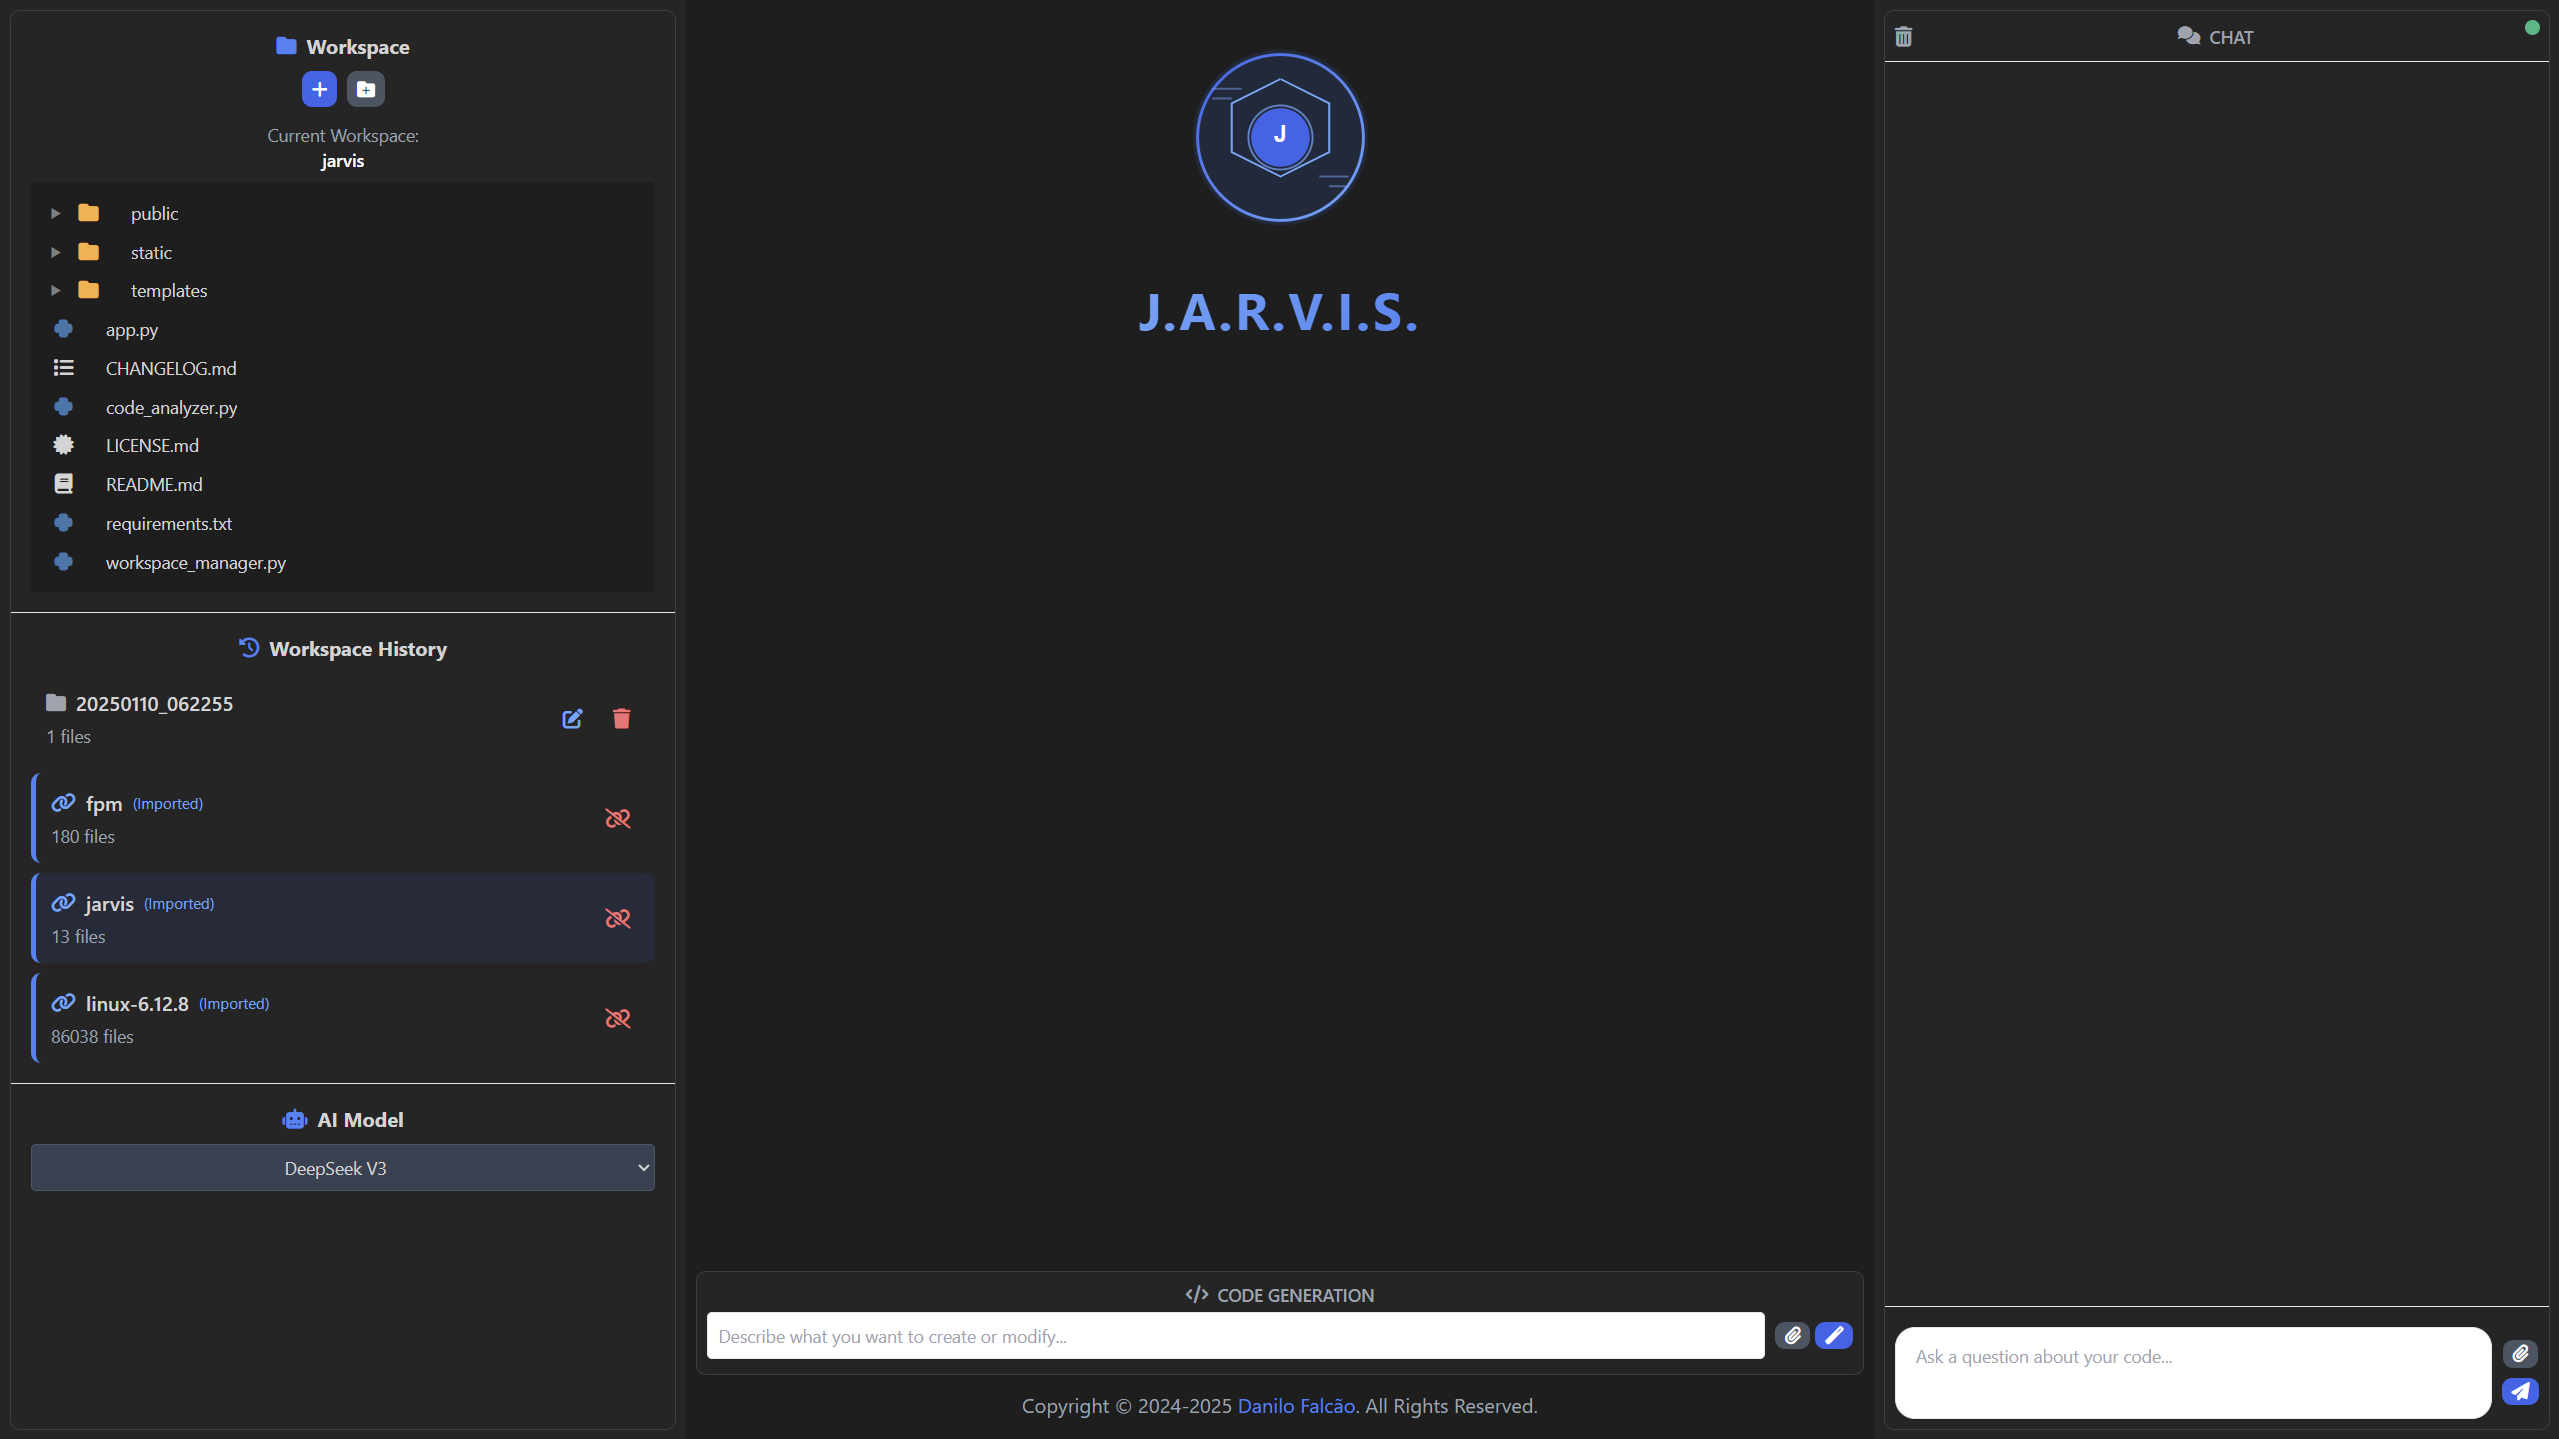
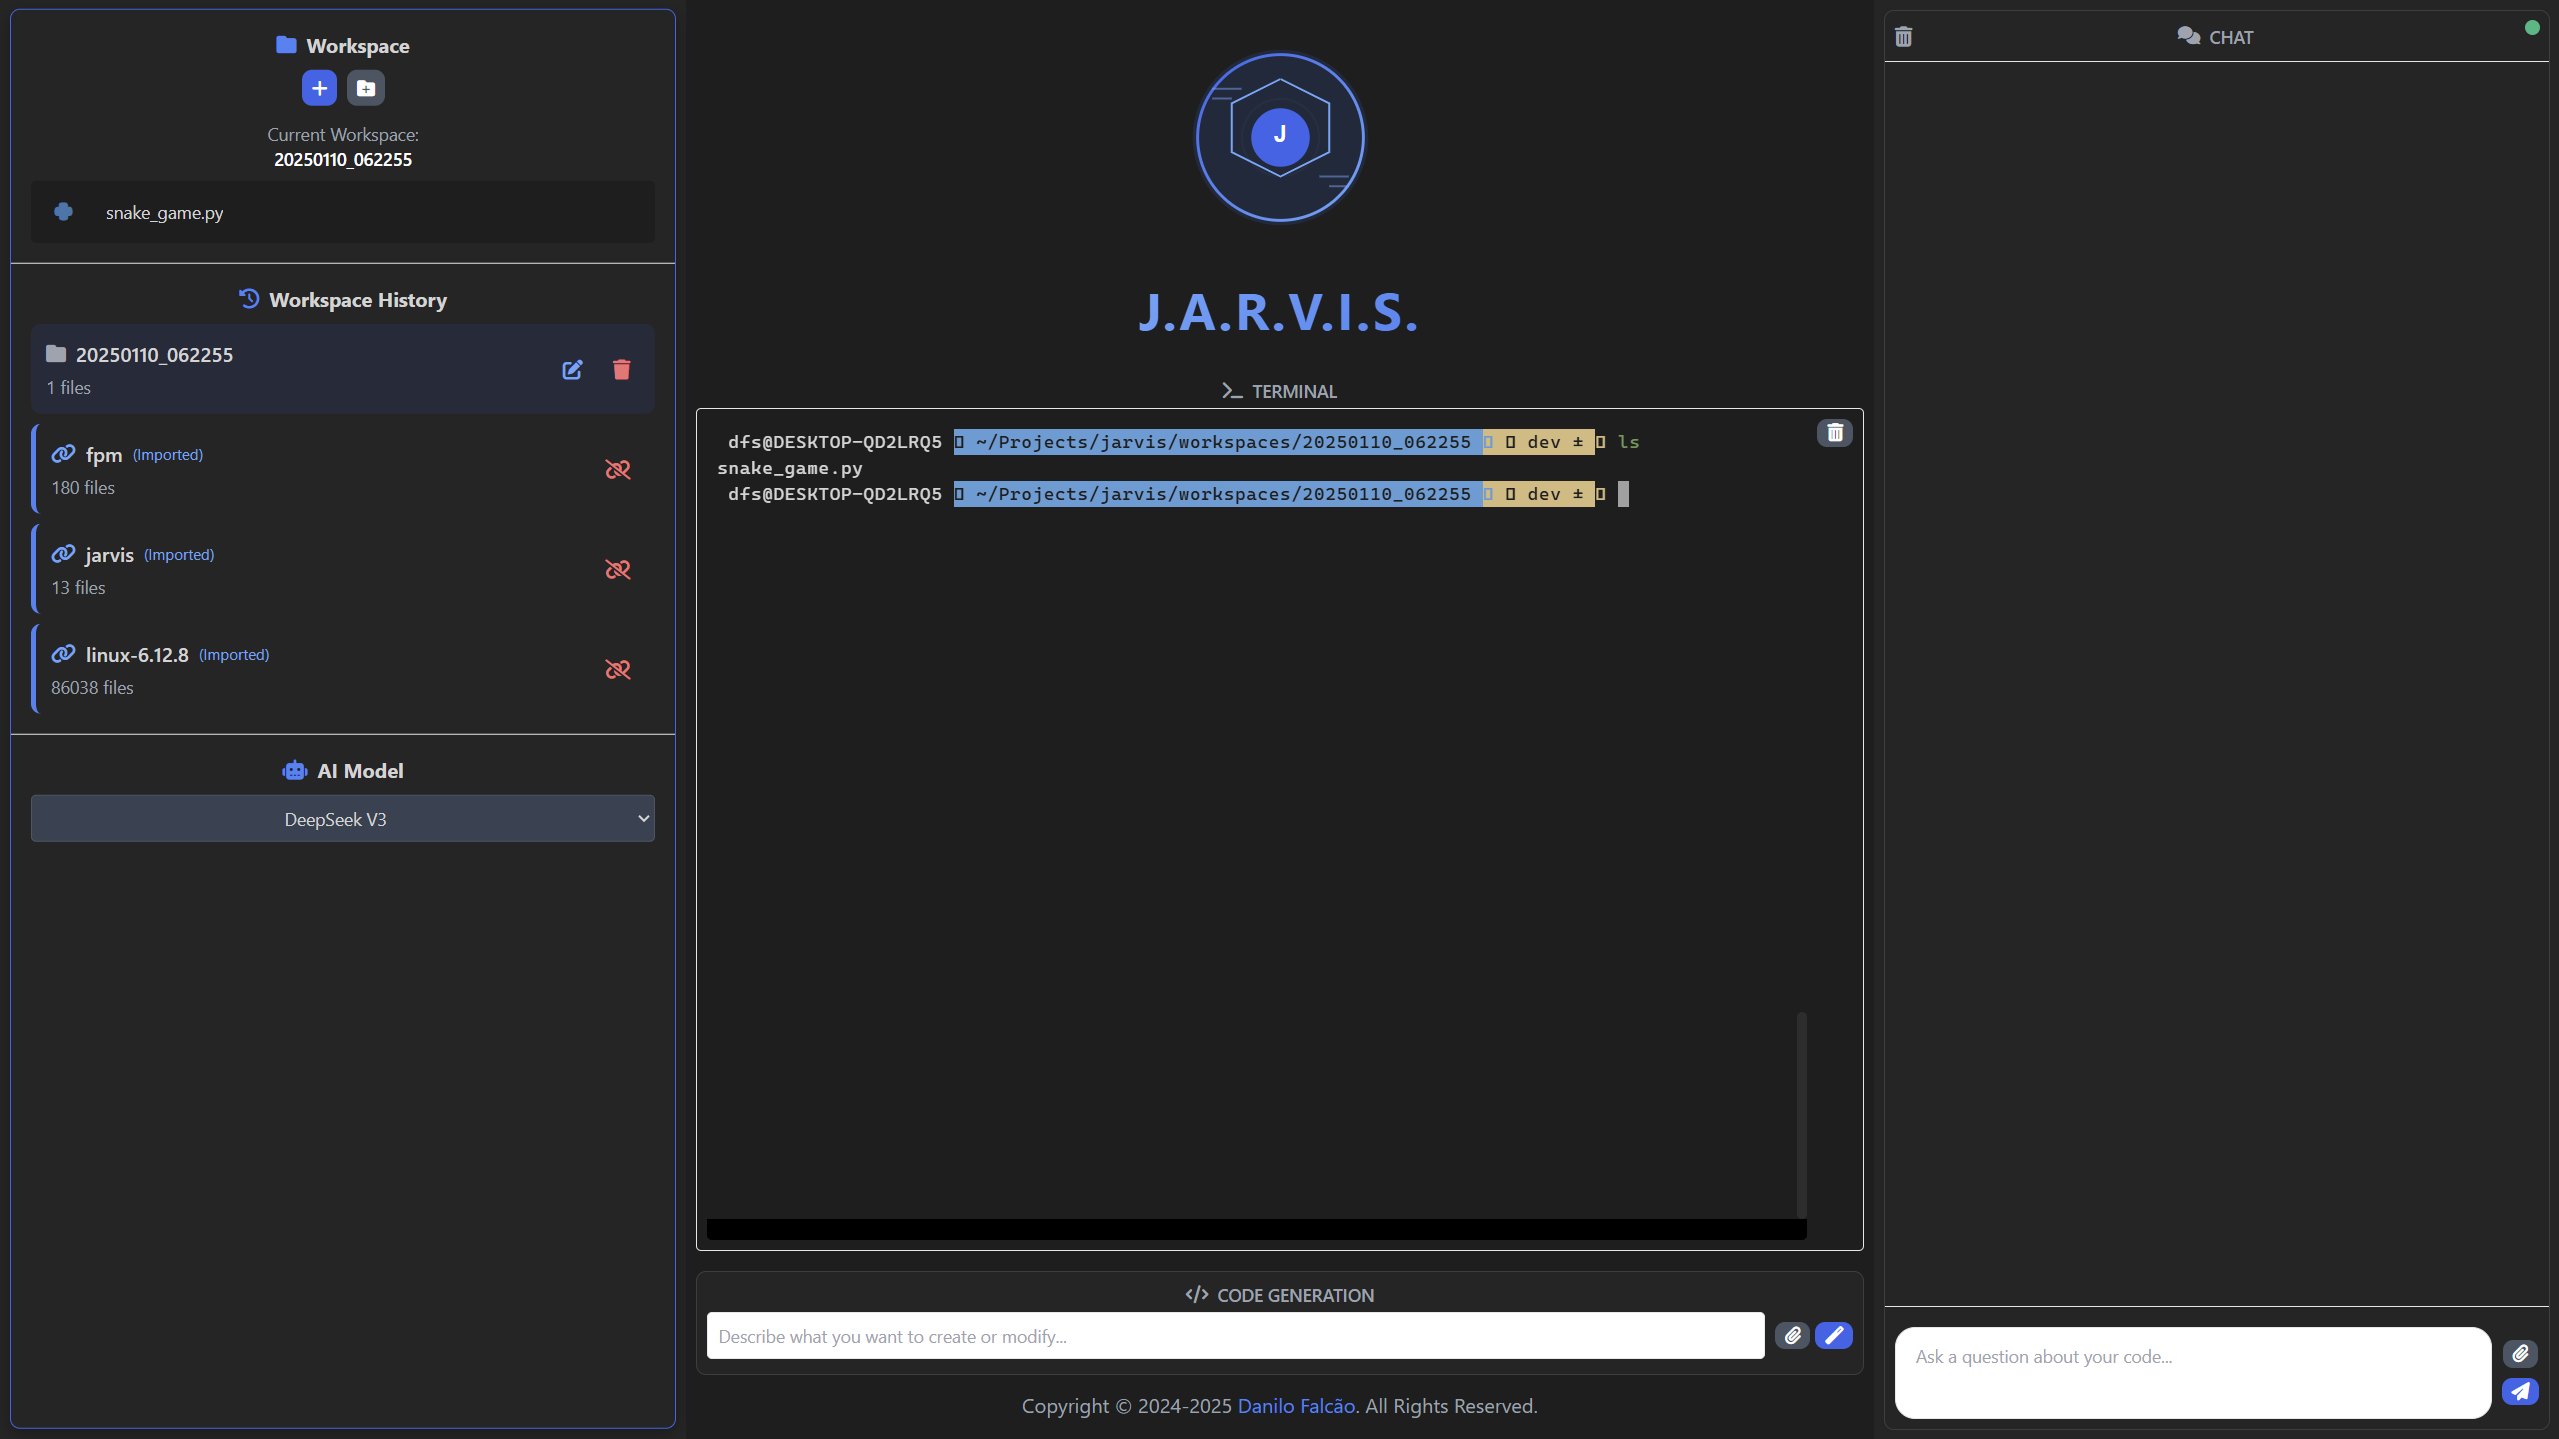
Release v0.0.14

diff --git a/workspace_manager.py b/workspace_manager.py
@@ -240,38 +240,31 @@ class WorkspaceManager:
         self.logger = logging.getLogger("WorkspaceManager")
         self.logger.setLevel(logging.DEBUG)
 
-        # Create handlers
+        # Setup console handler
         console_handler = logging.StreamHandler()
         console_handler.setLevel(logging.INFO)
-
-        # Delete existing log file if it exists
-        if os.path.exists(log_file):
-            try:
-                os.remove(log_file)
-            except Exception as e:
-                print(f"Failed to delete old log file: {e}")
-
-        # Create file handler
-        log_file = os.path.join(workspace_root, "workspace_manager.log")
-        file_handler = logging.FileHandler(log_file)
-        file_handler.setLevel(logging.DEBUG)
-
-        # Create formatters and add it to handlers
-        console_format = logging.Formatter(
-            "%(asctime)s - %(levelname)s - %(message)s")
-        file_format = logging.Formatter(
-            "%(asctime)s - %(name)s - %(levelname)s - %(funcName)s:%(lineno)d - %(message)s"
-        )
-
+        console_format = logging.Formatter("%(asctime)s - %(levelname)s - %(message)s")
         console_handler.setFormatter(console_format)
-        file_handler.setFormatter(file_format)
-
-        # Add handlers to the logger
         self.logger.addHandler(console_handler)
-        self.logger.addHandler(file_handler)
 
-        self.logger.info(
-            f"Initializing WorkspaceManager with root: {workspace_root}")
+        # Setup file handler
+        try:
+            log_file = os.path.join(workspace_root, "workspace_manager.log")
+            if os.path.exists(log_file):
+                try:
+                    os.remove(log_file)
+                except Exception as e:
+                    print(f"Failed to delete old log file: {e}")
+            
+            file_handler = logging.FileHandler(log_file)
+            file_handler.setLevel(logging.DEBUG)
+            file_format = logging.Formatter("%(asctime)s - %(name)s - %(levelname)s - %(funcName)s:%(lineno)d - %(message)s")
+            file_handler.setFormatter(file_format)
+            self.logger.addHandler(file_handler)
+        except Exception as e:
+            print(f"Failed to setup file logging: {e}")
+
+        self.logger.info(f"Initializing WorkspaceManager with root: {workspace_root}")
 
         # Initialize BM25 search
         self.search_index = BM25Search()

diff --git a/CHANGELOG.md b/CHANGELOG.md
@@ -2,6 +2,31 @@
 
 All notable changes to this project will be documented in this file.
 
+## [0.0.14] - 2024-01-15
+
+### Added
+- Integrated Terminal functionality:
+  - Cross-platform terminal support for Windows and Linux
+  - xterm.js integration for modern terminal experience
+  - Automatic workspace directory initialization
+  - Real-time output streaming and command execution
+  - Command history support
+  - Native shell integration (cmd.exe on Windows, bash on Linux)
+  - Proper directory tracking and workspace synchronization
+
+### Enhanced
+- Terminal user experience:
+  - Improved terminal output formatting
+  - Better error handling for terminal commands
+  - Workspace-aware terminal sessions
+  - Cross-platform path handling
+
+### Fixed
+- Terminal directory synchronization issues
+- Windows-specific terminal encoding problems
+- Terminal output streaming performance
+- Workspace path handling in terminal sessions
+
 ## [0.0.13] - 2024-01-14
 
 ### Removed

diff --git a/README.md b/README.md
@@ -6,6 +6,15 @@ J.A.R.V.I.S. is an intelligent coding assistant that leverages multiple state-of
 
 ## Features
 
+- **Integrated Terminal**:
+  - Cross-platform terminal support (Windows and Linux)
+  - Automatic workspace directory initialization
+  - Full xterm.js integration
+  - Real-time output streaming
+  - Command history support
+  - Proper directory tracking
+  - Native shell integration (cmd.exe on Windows, bash on Linux)
+
 - **Multi-Model Support**: Choose between different AI models for your coding needs:
   - DeepSeek V3
   - Gemini 2.0 Flash Experimental
